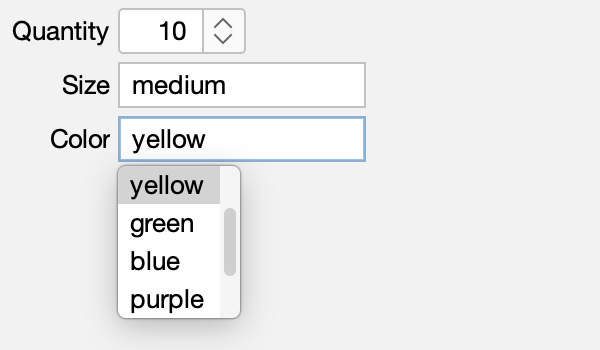
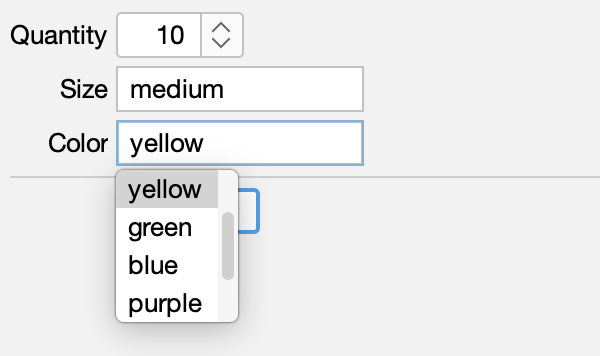
Update examples.

Changed region(s): [[0.0, 0.0, 1.0, 0.9143]]

diff --git a/sierra-test/src/main/java/org/httprpc/sierra/test/SuggestionPickerTest.java b/sierra-test/src/main/java/org/httprpc/sierra/test/SuggestionPickerTest.java
@@ -18,14 +18,23 @@ import com.formdev.flatlaf.FlatLightLaf;
 import org.httprpc.sierra.SuggestionPicker;
 import org.httprpc.sierra.UILoader;
 
+import javax.swing.JButton;
 import javax.swing.JFrame;
+import javax.swing.JLabel;
+import javax.swing.JSpinner;
+import javax.swing.SpinnerNumberModel;
 import javax.swing.SwingUtilities;
 
 import static org.httprpc.kilo.util.Collections.*;
 
 public class SuggestionPickerTest extends JFrame implements Runnable {
+    private JSpinner countSpinner = null;
     private SuggestionPicker sizeSuggestionPicker = null;
     private SuggestionPicker colorSuggestionPicker = null;
+
+    private JButton submitButton = null;
+
+    private JLabel selectionLabel = null;
 
     private SuggestionPickerTest() {
         super("Suggestion Picker Test");
@@ -36,6 +45,8 @@ public class SuggestionPickerTest extends JFrame implements Runnable {
     @Override
     public void run() {
         setContentPane(UILoader.load(this, "suggestion-picker-test.xml"));
+
+        countSpinner.setModel(new SpinnerNumberModel(0, 0, 10, 1));
 
         sizeSuggestionPicker.setSuggestions(listOf(
             "small",
@@ -58,8 +69,23 @@ public class SuggestionPickerTest extends JFrame implements Runnable {
 
         colorSuggestionPicker.addChangeListener(event -> System.out.println(colorSuggestionPicker.getText()));
 
-        setSize(320, 240);
+        submitButton.addActionListener(event -> showSelection());
+
+        rootPane.setDefaultButton(submitButton);
+
+        setSize(360, 240);
         setVisible(true);
+    }
+
+    private void showSelection() {
+        var count = (int)countSpinner.getValue();
+
+        var size = sizeSuggestionPicker.getText();
+        var color = colorSuggestionPicker.getText();
+
+        var message = String.format("You selected %d, \"%s\", and \"%s\".", count, size, color);
+
+        selectionLabel.setText(message);
     }
 
     public static void main(String[] args) {

diff --git a/sierra-test/src/main/java/org/httprpc/sierra/test/ValidatedInputTest.java b/sierra-test/src/main/java/org/httprpc/sierra/test/ValidatedInputTest.java
@@ -69,14 +69,12 @@ public class ValidatedInputTest extends JFrame implements Runnable {
         var number1 = map(numberField1.getValue(), Number::doubleValue);
         var number2 = map(numberField2.getValue(), Number::doubleValue);
 
-        var validatedText1 = validatedTextField1.getValue();
-        var validatedText2 = validatedTextField2.getValue();
+        var validatedText1 = map(validatedTextField1.getValue(), value -> String.format("\"%s\"", value));
+        var validatedText2 = map(validatedTextField2.getValue(), value -> String.format("\"%s\"", value));
 
-        messageLabel.setText(String.format(resourceBundle.getString("messageFormat"),
-            number1,
-            number2,
-            validatedText1 == null ? null : String.format("\"%s\"", validatedText1),
-            validatedText2 == null ? null : String.format("\"%s\"", validatedText2)));
+        var message = String.format(resourceBundle.getString("messageFormat"), number1, number2, validatedText1, validatedText2);
+
+        messageLabel.setText(message);
     }
 
     public static void main(String[] args) {
